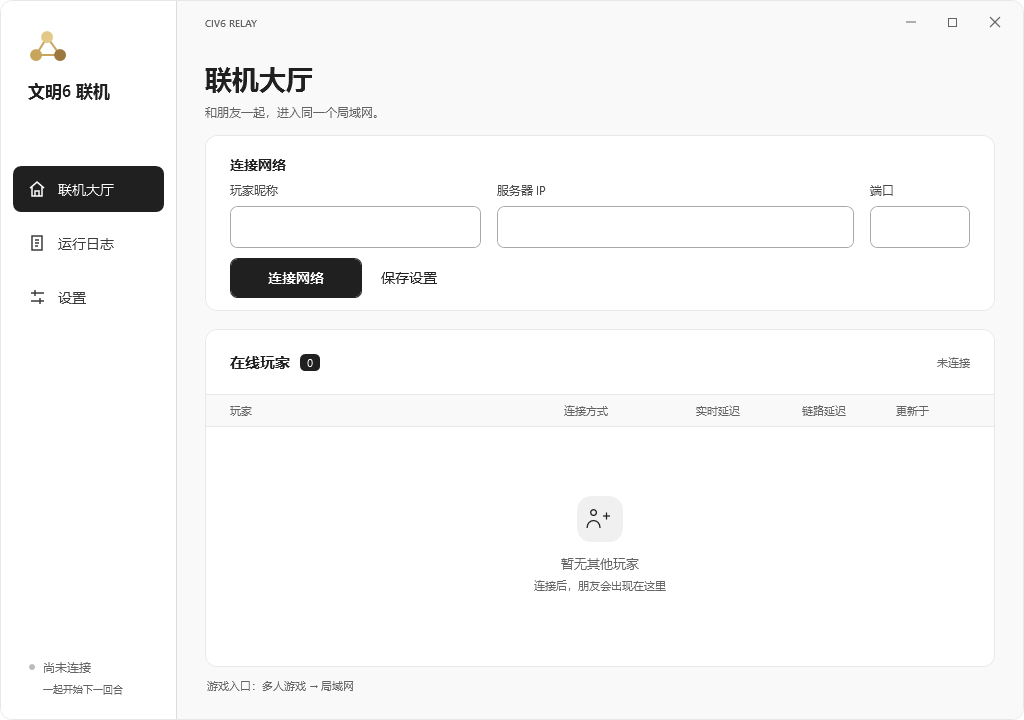
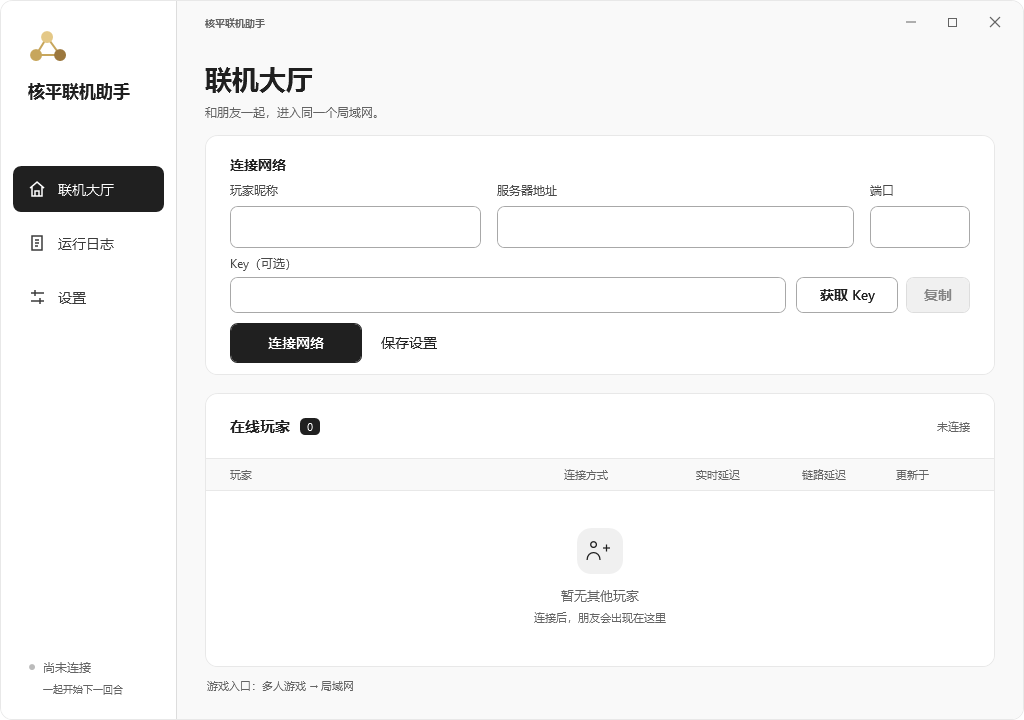
Document 核平联机助手 with verified Windows screenshots

diff --git a/docs/client-themes.md b/docs/client-themes.md
@@ -9,6 +9,10 @@
 
 在 **设置 → 外观** 选择，立即生效并自动保存。首次启动默认使用黑白，之后沿用上次选择。连接期间也可切换，不会重新连接网络。
 
+![文明6主题：深灰蓝侧栏、柔和金色和浅羊皮纸背景](images/client-civ6-theme.png)
+
+截图由实际 Windows WPF 客户端生成，玩家、地址和延迟使用演示数据。
+
 大厅、玩家列表、日志、设置、按钮、输入框和操作提示共同使用主题资源。应用图标及原有品牌标记独立于界面主题。
 
 主题选择单独保存在 `%ProgramData%\Civ6RelayMesh\appearance.json`。选择主题无需先填写昵称、服务器或 Key；不会修改这些连接设置。主题文件丢失、损坏或包含不支持的名称时使用黑白主题。
@@ -19,7 +23,7 @@
 
 - PowerShell 验证主题保存和读取、未填写连接设置时的选择、独立配置与损坏文件恢复。
 - 检查两套配色和所有 XAML 动态资源完整、黑白默认值一致。
-- 浏览器界面预览检查两个主题切换、连接状态保留，以及大厅、日志、设置的布局；预览配色直接取自客户端的 `Themes.json`。
+- Windows PowerShell 5.1 中运行实际 WPF 界面，验证连接中切换主题、恢复黑白、动态画刷、导航和缩小窗口后的布局。
 - 打包和安装检查要求携带 `Themes.json`，个人外观设置不进入公开包。
 
-Windows WPF 工作流已增加连接中切换、恢复黑白、动态颜色和界面渲染场景，本次尚未运行原生 Windows 实机验证。浏览器预览不作为 WPF 实机截图。
+1.0.0 的 [Windows 验证](https://github.com/FLF-Gamer/civ6-relay/actions/runs/41409888354) 已通过，包含两套主题的实际 WPF 截图。界面测试使用模拟连接数据，没有启动文明6。

diff --git a/README.md b/README.md
@@ -56,7 +56,7 @@ Key 模式默认关闭，由服务器管理员显式开启。Key 由所填服务
 
 ### 设置与网络工具
 
-![设置页：连接偏好、网络诊断和组件检查](docs/images/client-settings.png)
+![设置页：网络工具、客户端更新入口和服务端版本查询](docs/images/client-settings.png)
 
 - **外观**：选择黑白或文明6主题，立即生效，重启后保留选择。
 - **关闭窗口时自动断开连接**：默认开启；取消后，关闭窗口会保留组网进程。该开关只对本次运行生效。
